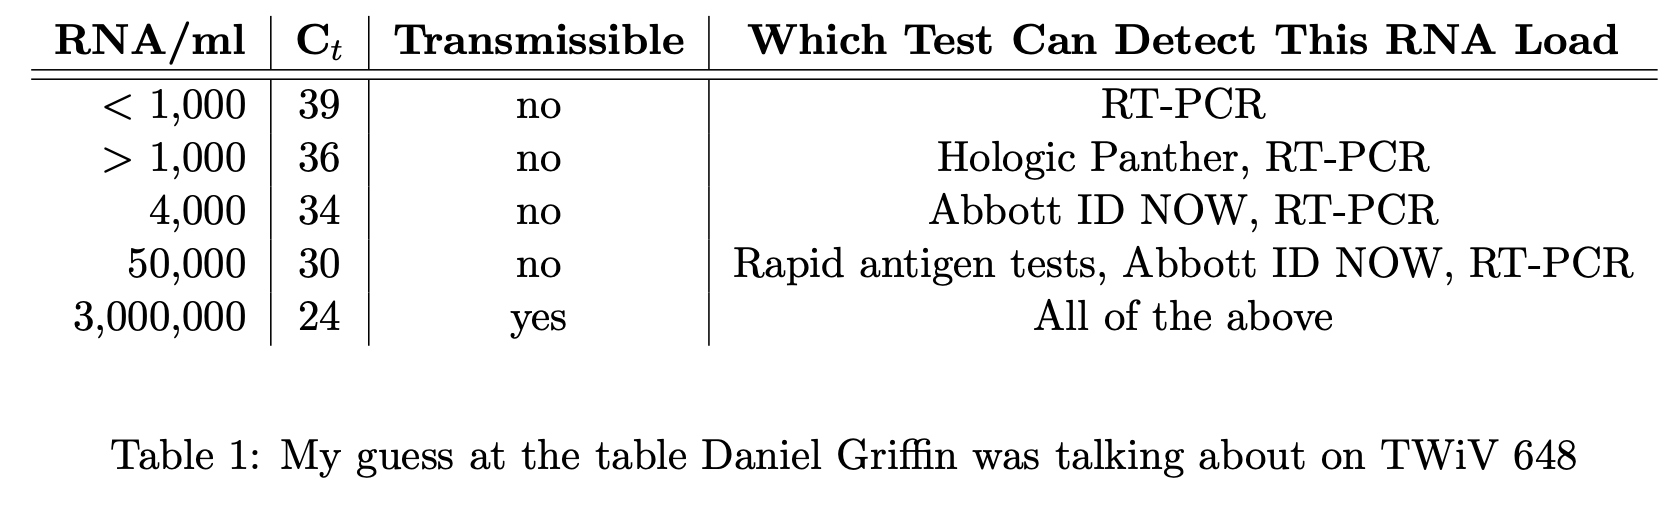
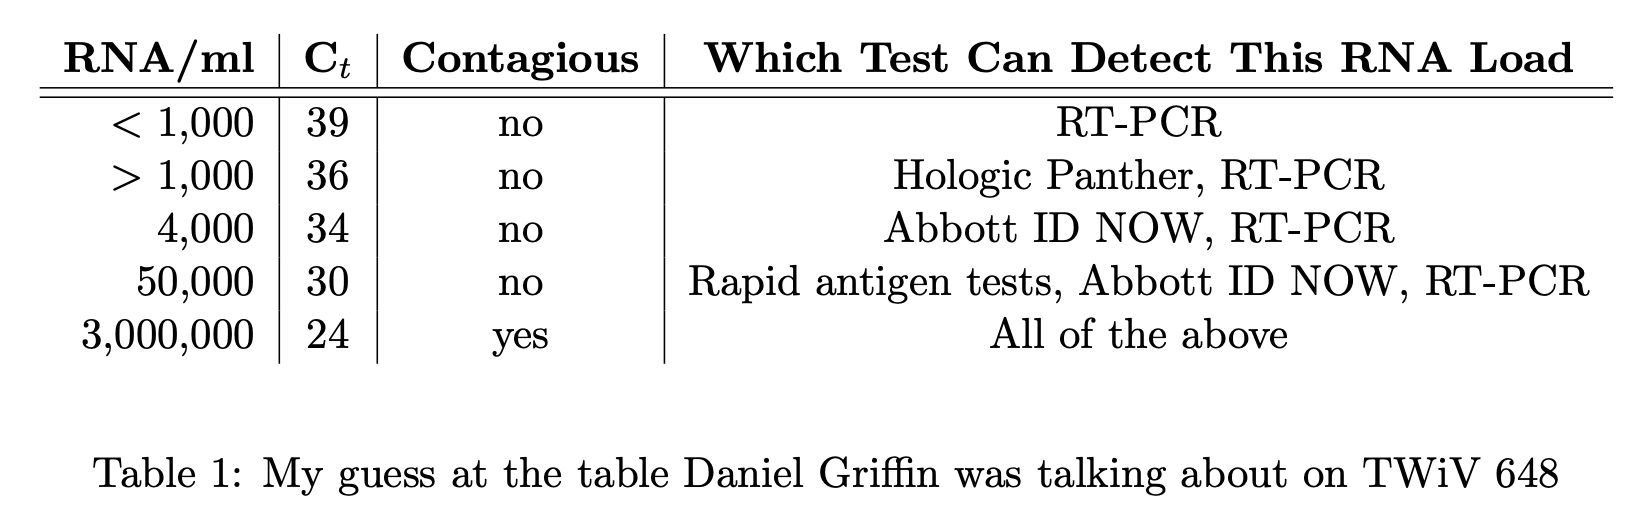
ct

diff --git a/_my_stuff/papers/ct/ct.tex b/_my_stuff/papers/ct/ct.tex
@@ -54,7 +54,7 @@
 \begin{table}
   \begin{center}
     \begin{tabular}{r|c|c|c} 
-      \textbf{RNA/ml} & \textbf{$\text{C}_t$} & \textbf{Transmissible} & \textbf{Which Test Can Detect This RNA Load} \\
+      \textbf{RNA/ml} & \textbf{$\text{C}_t$} & \textbf{Contagious} & \textbf{Which Test Can Detect This RNA Load} \\
       \hline 
       \hline 
       $<$ 1,000     & 39 & no    & RT-PCR                                                            \\
